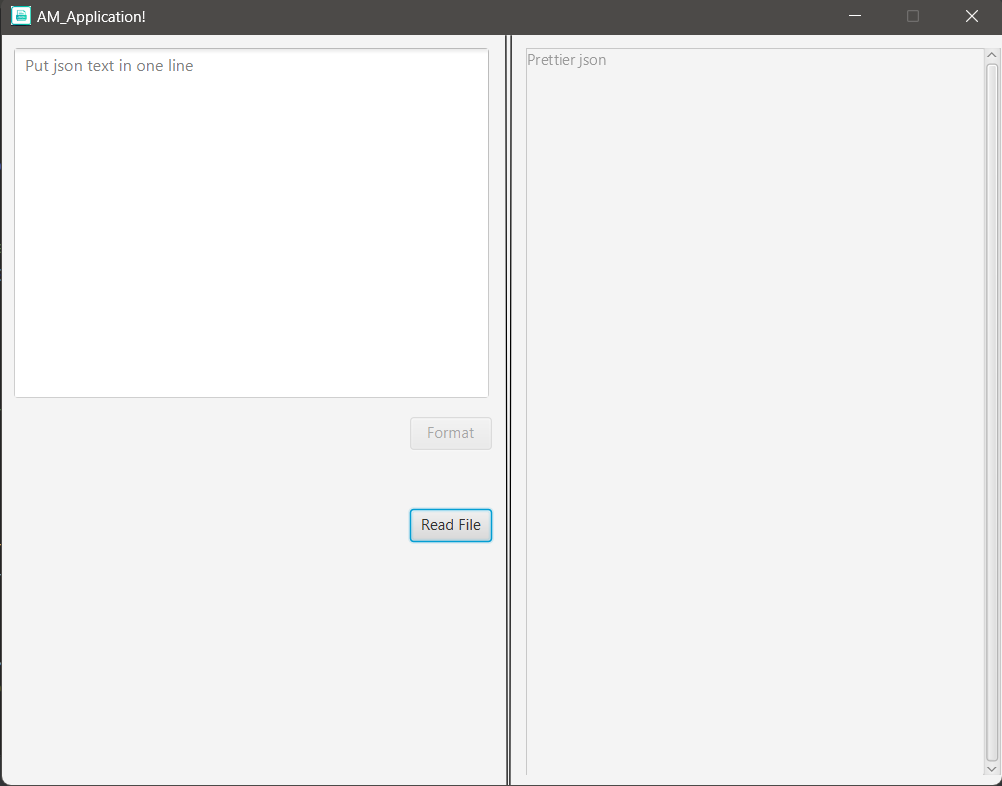
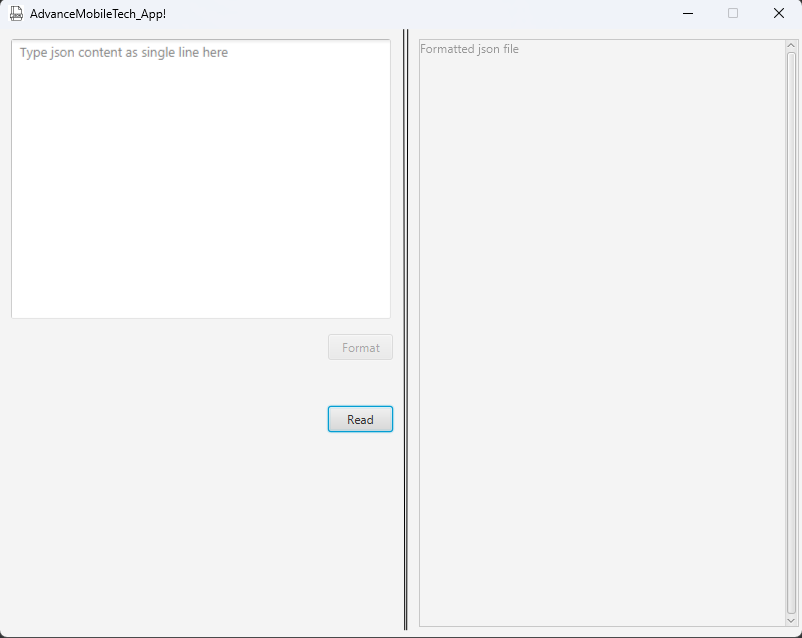
minor changes

diff --git a/AdvanceMobileTech_App/src/main/java/com/application/application/HelloApplication.java b/AdvanceMobileTech_App/src/main/java/com/application/application/HelloApplication.java
@@ -16,7 +16,7 @@ public class HelloApplication extends Application {
         FXMLLoader fxmlLoader = new FXMLLoader(HelloApplication.class.getResource("hello-view.fxml"));
         Scene scene = new Scene(fxmlLoader.load(),800, 600);
         stage.setTitle("AdvanceMobileTech_App!");
-        stage.getIcons().add(new Image("/iconjson1.jpg"));
+        stage.getIcons().add(new Image("/icon.jpg"));
         stage.setScene(scene);
         stage.setResizable(false);
         stage.show();

diff --git a/AdvanceMobileTech_App/src/main/java/com/application/application/HelloController.java b/AdvanceMobileTech_App/src/main/java/com/application/application/HelloController.java
@@ -36,7 +36,7 @@ public class HelloController implements Initializable {
     private ScrollPane formattedLabel;
 
     Text setTextColorScrollPane(){
-        Text text = new Text("Prettier json");
+        Text text = new Text("Formatted json file");
         text.setFill(Color.gray(0.6));
         return text;
     }

diff --git a/AdvanceMobileTech_App/README.md b/AdvanceMobileTech_App/README.md
@@ -1,4 +1,4 @@
-# AM_Application
-Application to convert json format texts
+# AdvancedMobileTech_App
+This application displays json text 
 
 ![](Image/mainWindow.png)
